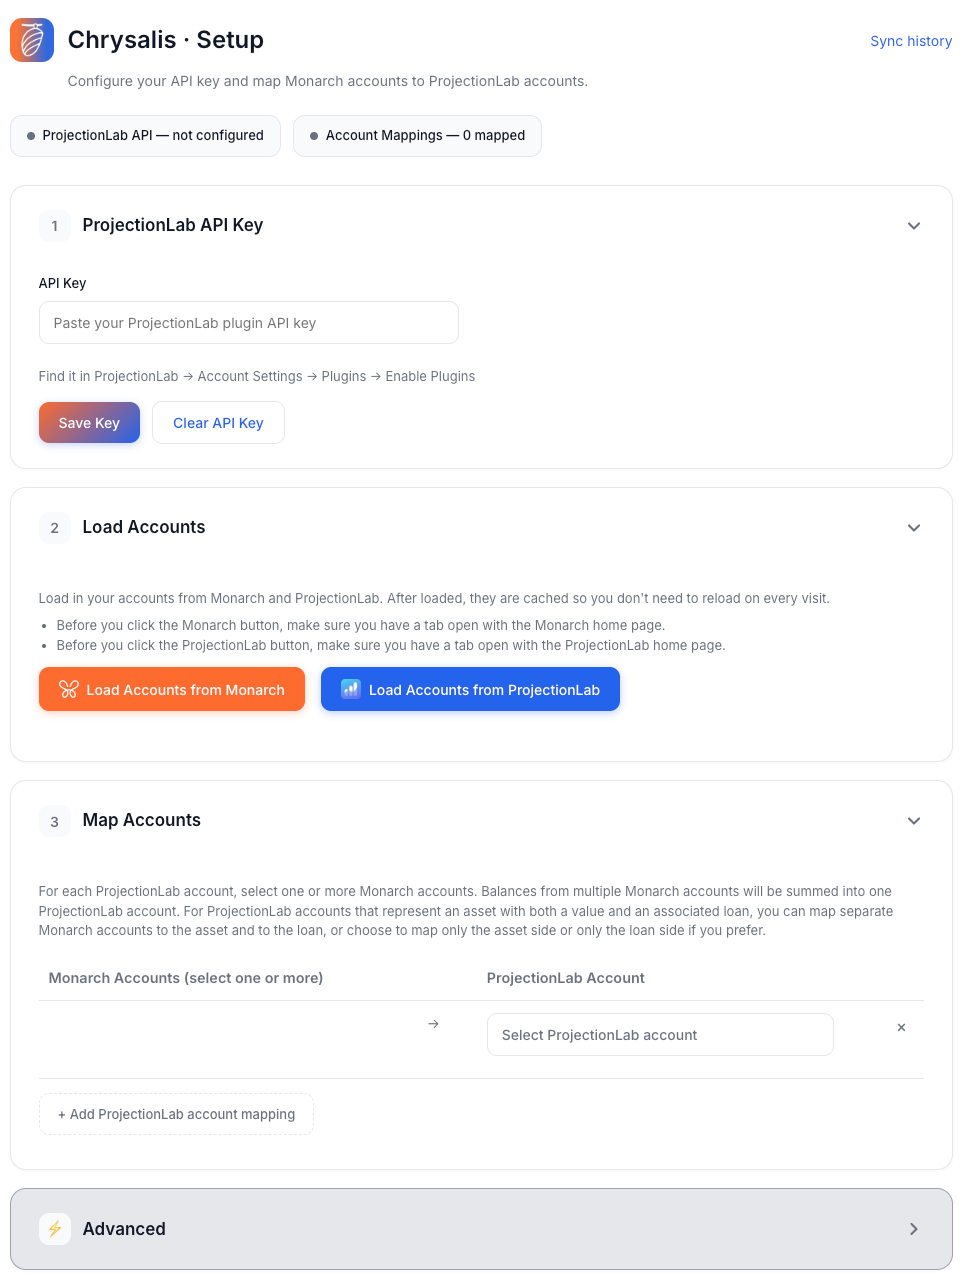
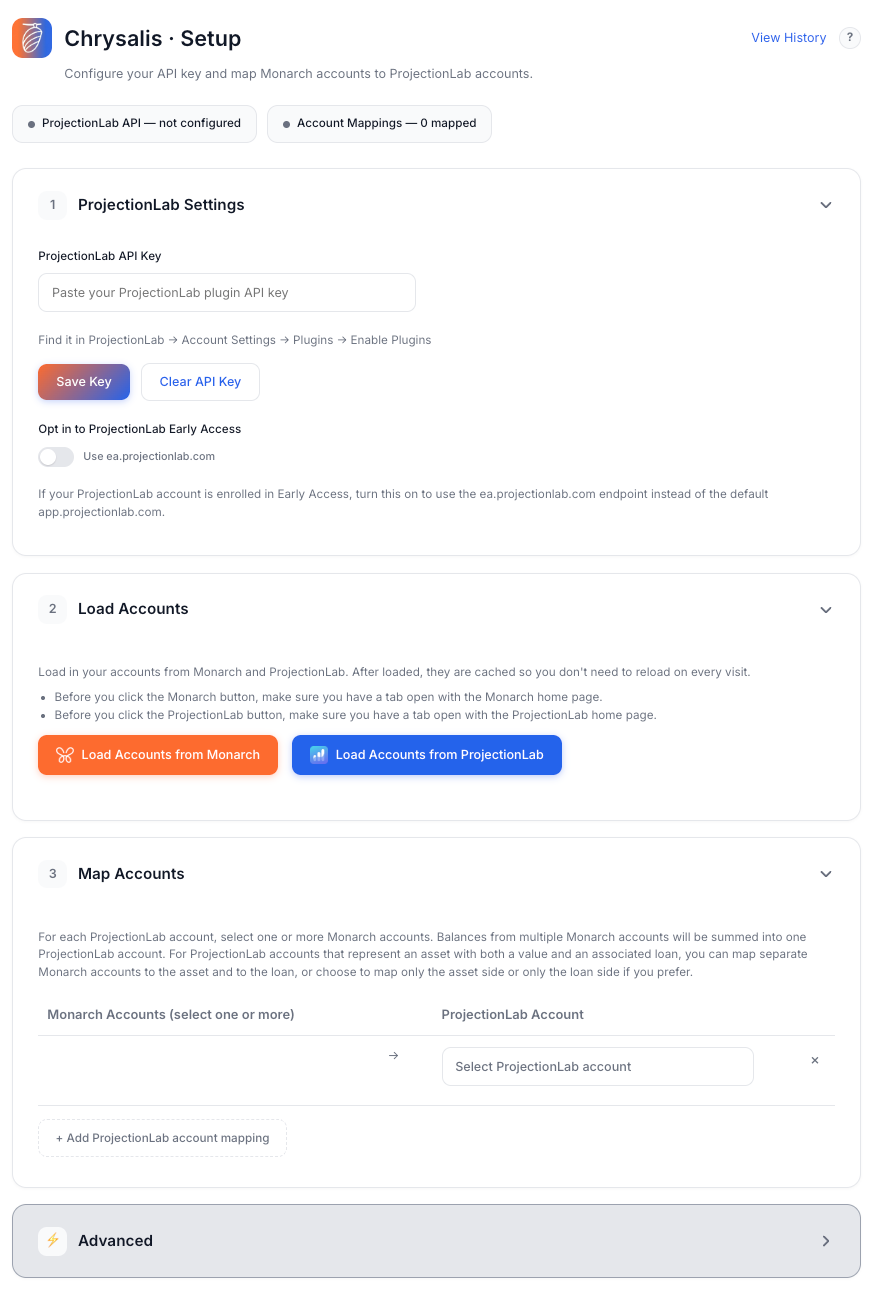
readme updates and screenshots, and reoder html on setup page for the API key buttons

diff --git a/setup/setup.html b/setup/setup.html
@@ -600,7 +600,7 @@
     /* Step 1 — ProjectionLab Settings: API key + Early Access toggle */
     .pl-settings-row { display: flex; gap: 20px; flex-wrap: wrap; align-items: flex-start; }
     .pl-key-col { flex: 1; min-width: 260px; }
-    .ea-toggle-field { min-width: 220px; padding-top: 2px; padding-right: 60px; }
+    .ea-toggle-field { margin-top: 22px; }
     .ea-toggle-label { display: block; font-size: 13px; font-weight: 500; color: var(--text); margin-bottom: 10px; }
     .switch { display: inline-flex; align-items: center; gap: 10px; cursor: pointer; }
     .switch input { position: absolute; opacity: 0; width: 0; height: 0; }
@@ -652,26 +652,22 @@
         <span class="step-chevron" aria-hidden="true"><svg viewBox="0 0 24 24" fill="none" stroke="currentColor" stroke-width="2.5" stroke-linecap="round" stroke-linejoin="round"><path d="M6 9l6 6 6-6"/></svg></span>
       </div>
       <div class="step-body" id="step1-body">
-      <div class="pl-settings-row">
-        <div class="pl-key-col">
-          <label for="pl-key">ProjectionLab API Key</label>
-          <input type="password" id="pl-key" placeholder="Paste your ProjectionLab plugin API key" autocomplete="off" />
-          <p class="hint">Find it in ProjectionLab → Account Settings → Plugins → Enable Plugins</p>
-        </div>
-        <div class="ea-toggle-field">
-          <span class="ea-toggle-label">Opt in to ProjectionLab Early Access</span>
-          <label class="switch">
-            <input type="checkbox" id="pl-early-access" />
-            <span class="switch-slider"></span>
-            <span class="switch-text">Use ea.projectionlab.com</span>
-          </label>
-          <p class="hint">If your ProjectionLab account is enrolled in Early Access, turn this on to use the ea.projectionlab.com endpoint instead of the default app.projectionlab.com.</p>
-        </div>
-      </div>
-      <div style="display:flex;align-items:center;gap:12px;flex-wrap:wrap;margin-top:14px">
+      <label for="pl-key">ProjectionLab API Key</label>
+      <input type="password" id="pl-key" placeholder="Paste your ProjectionLab plugin API key" autocomplete="off" />
+      <p class="hint">Find it in ProjectionLab → Account Settings → Plugins → Enable Plugins</p>
+      <div style="display:flex;align-items:center;gap:12px;flex-wrap:wrap;margin-top:4px">
         <button type="button" class="btn btn-primary" id="save-key">Save Key</button>
         <button type="button" class="btn btn-secondary" id="clear-key">Clear API Key</button>
         <span id="key-saved-msg" class="load-status" style="font-size:13px;color:var(--muted)"></span>
+      </div>
+      <div class="ea-toggle-field">
+        <span class="ea-toggle-label">Opt in to ProjectionLab Early Access</span>
+        <label class="switch">
+          <input type="checkbox" id="pl-early-access" />
+          <span class="switch-slider"></span>
+          <span class="switch-text">Use ea.projectionlab.com</span>
+        </label>
+        <p class="hint">If your ProjectionLab account is enrolled in Early Access, turn this on to use the ea.projectionlab.com endpoint instead of the default app.projectionlab.com.</p>
       </div>
       </div>
     </div>

diff --git a/README.md b/README.md
@@ -88,7 +88,7 @@ Click the Chrysalis icon and then click **Setup ↗** in the top-right corner of
 
 <kbd><img src="screenshots/full-setup-not-configured.png" width="600"></kbd>
 
-### Step 1 — Add your ProjectionLab API key
+### Step 1 — Set up ProjectionLab
 
 Chrysalis uses ProjectionLab's official Plugin API to update your account balances. You need to enable this and generate a key:
 
@@ -97,7 +97,9 @@ Chrysalis uses ProjectionLab's official Plugin API to update your account balanc
 3. Toggle **Enable Plugins** on
 4. Copy the value shown in the **Plugin API Key** field
 
-Paste it into the API key field in Chrysalis and click **Save Key**.
+Paste it into the **ProjectionLab API Key** field in Chrysalis and click **Save Key**.
+
+**ProjectionLab Early Access (optional):** Most people should skip this — by default Chrysalis uses the standard `app.projectionlab.com`. If your ProjectionLab account is enrolled in the Early Access program (`ea.projectionlab.com`), flip on the **Opt in to ProjectionLab Early Access** toggle (below the Save/Clear buttons) so account loading and balance syncs use the Early Access endpoint instead.
 
 ### Step 2 — Load your accounts
 
@@ -105,7 +107,7 @@ Before you can map anything, Chrysalis needs to fetch your account lists from bo
 
 1. Make sure you're logged into Monarch Money. Have `app.monarchmoney.com` open in a tab
 2. Click **Load Accounts from Monarch**. You should see success text underneath the button
-3. Make sure you're logged into ProjectionLab in an open tab (as of release 1.0.4 it supports both app.projectionlab.com and ea.projectionlab.com)
+3. Make sure you're logged into ProjectionLab in an open tab — `app.projectionlab.com`, or `ea.projectionlab.com` if you enabled Early Access in Step 1
 4. Click **Load Accounts from ProjectionLab**. You should see success text underneath the button
 5. Anytime you add/remove/rename accounts in either tool, come back to Setup the click the corresponding buttons, which will then say "Refresh Accounts from Monarch/ProjectionLab". Your mappings are keyed by ID and will be preserved even if you change the name of an account.
 
@@ -168,11 +170,15 @@ After you have at least 1 sync in the cache, the popup will also include details
 
 ### Authentication
 
-Chrysalis does not store your Monarch username or password. Instead, it reads the session token that Monarch's web app stores in the browser's `localStorage` after you log in normally. This is the same token your browser is already using to show you your accounts — Chrysalis just borrows it. This approach is both more secure and more reliable than storing credentials.
+Chrysalis never sees or stores your Monarch or ProjectionLab username or password.
+
+**Monarch** is authenticated by reusing the session you're already logged into. When you sync, Chrysalis reads the CSRF token that Monarch's web app keeps in the page — via a `MAIN`-world script injected into your open Monarch tab — and sends it together with your browser's existing Monarch session cookies on the API request. Because it rides on your existing session, there are no credentials to store and **no extra browser permissions** are required (notably, the `cookies` permission is *not* used). This is also why syncing only works while a Monarch tab is open.
+
+**ProjectionLab** is authenticated with the Plugin API key you saved in Step 1. Requests go to `app.projectionlab.com` by default, or `ea.projectionlab.com` if you opted into Early Access.
 
 ### Fetching balances
 
-Once it has the session token, Chrysalis makes a GraphQL request directly to Monarch's API, the same endpoint the Monarch web app uses, and retrieves the current balance for each of your mapped accounts.
+Once authenticated, Chrysalis makes a GraphQL request directly to Monarch's API — the same endpoint the Monarch web app uses — and retrieves the current balance for each of your mapped accounts.
 
 ### Updating ProjectionLab
 
@@ -266,9 +272,9 @@ This section has 2 buttons: one to download your current mappings as a JSON file
 
 ## 🚑 Troubleshooting
 
-**"No Monarch session token found"**
+**"Failed to fetch" or Monarch accounts won't load**
 
-Make sure you're logged into Monarch Money in the current tab. Try refreshing the Monarch page and syncing again. If you're still having issues, go to the Advanced section under Setup and click the "Run Monarch diagnosis" button. It will generate some text that should help you solve the issue.
+Make sure you're logged into Monarch Money and that the Monarch tab is open when you sync (Chrysalis reads its auth from that tab). Try refreshing the Monarch page and syncing again. If you're still having issues, go to the Advanced section under Setup and click the "Run Monarch diagnosis" button. It will generate some text that should help you solve the issue.
 
 **"ProjectionLab plugin API not found"**
 
@@ -294,7 +300,7 @@ Check the sync result detail in the popup — if a many-to-one mapping is partia
 
 Contributions are welcome, especially fixes when Monarch or ProjectionLab change their APIs.
 
-**When Monarch breaks auth or account fetching**, the relevant file is `content-scripts/monarch.js`. The most common failure mode is that the session token could move to a different `localStorage` key. The token scanning logic is at the top of that file.
+**When Monarch breaks auth or account fetching**, the relevant file is `content-scripts/monarch.js`. Auth relies on the CSRF token read from the logged-in Monarch tab (a `MAIN`-world script) plus the existing session cookies; the auth and request-building logic is at the top of that file.
 
 **When ProjectionLab's Plugin API changes**, the relevant call is in `background/service-worker.js`.
 